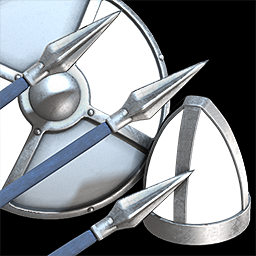
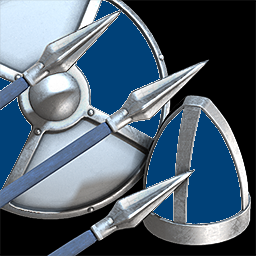
updated some transparent colors

diff --git a/README.md b/README.md
@@ -25,3 +25,5 @@ Run `ng e2e` to execute the end-to-end tests via [Protractor](http://www.protrac
 ## Further help
 
 To get more help on the Angular CLI use `ng help` or go check out the [Angular CLI README](https://github.com/angular/angular-cli/blob/master/README.md).
+
+004178
